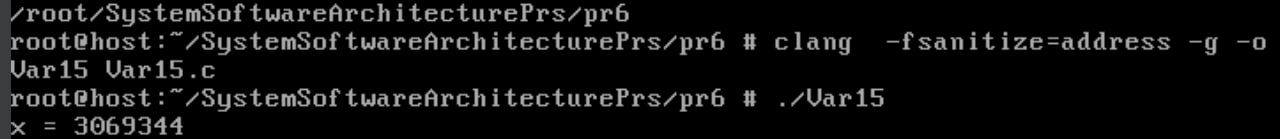
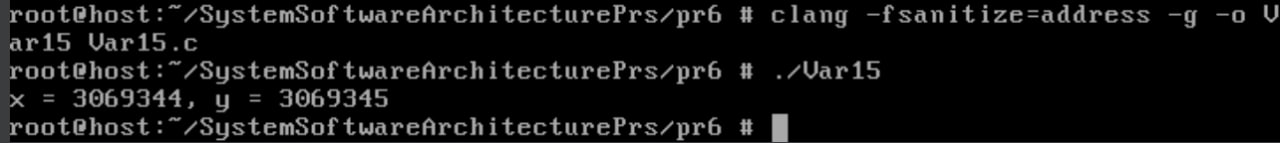
edit

Changed region(s): [[0.0, 0.2302, 1.0, 0.6043], [0.0, 0.6043, 1.0, 1.0], [0.0, 0.0288, 1.0, 0.2014]]

diff --git a/pr6/README.md b/pr6/README.md
@@ -27,13 +27,11 @@ int main() {
    ./Var15
    ```
 3. ASan вивів наступне повідомлення про помилку:
-   ```
-   ==12345==ERROR: AddressSanitizer: use-of-uninitialized-value
-   ==12345==    at 0x...: main (Var15.c:5)
-   ==12345==    #0 0x...  main+0x...
-   ==12345==    #1 0x...  __libc_start_main+0x...
-   ==12345==    #2 0x...  _start+0x...
-   ```
+
+![](pr6/Var15.png)
+
+
+
 Це означає, що програма намагалася використати значення змінної `x`, яка не була попередньо ініціалізована, що призводить до невизначеної поведінки.
 
 ---
